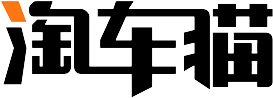
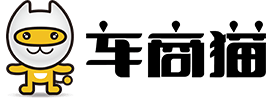
淘车猫更名为车商猫

diff --git a/src/page/profile/children/children/setting/children/about.vue b/src/page/profile/children/children/setting/children/about.vue
@@ -1,7 +1,7 @@
 <template>
 	<div class="rating_page about-page">
 			<header class="user-tit">
-				<a href="javascript:;" class="white-lt" @click="goback"></a>关于淘车猫
+				<a href="javascript:;" class="white-lt" @click="goback"></a>关于车商猫
 			</header>
 
 		<section class="about-wrap">
@@ -10,7 +10,7 @@
 				<span>version 1.1</span>
 			</div>
 			<div class="about-ct">
-				<p>淘车猫是"一猫汽车网"为综合经销商提供优质自营车源的服务平台，使用平台可方便快速的完成订车、安全高效的管理车辆。淘车猫还提供店内展车服务，减少经销商资金压力。
+				<p>车商猫是"一猫汽车网"为综合经销商提供优质自营车源的服务平台，使用平台可方便快速的完成订车、安全高效的管理车辆。车商猫还提供店内展车服务，减少经销商资金压力。
 				</p>
 				<p>
 				自建物流仓储，保证车辆交付及及时性，闪电发车，3日必达！

diff --git a/index.html b/index.html
@@ -9,7 +9,7 @@
     <meta name="x5-fullscreen" content="true">
     <meta name="viewport" content="initial-scale=1, maximum-scale=1, minimum-scale=1, user-scalable=no">
     <link rel="shortcut icon" href="static/favicon.ico" type="image/x-icon" />
-    <title>欢迎加入淘车猫</title>
+    <title>欢迎加入车商猫</title>
 
   </head>
   <body>

diff --git a/src/components/header/header.vue b/src/components/header/header.vue
@@ -1,7 +1,7 @@
 <template>
 
 	<header class="index-header">
-	    <strong class="index-title">淘车猫</strong>
+	    <strong class="index-title">车商猫</strong>
 	    <div class="index-news news-icon"  @click="goMess">
 	        <span v-show="myMessage">{{myMessage}}</span>
 	    </div>

diff --git a/src/page/profile/children/children/setting/setting.vue b/src/page/profile/children/children/setting/setting.vue
@@ -5,7 +5,7 @@
 		</header>
 		<!--设置-->
 		<section class="set-wrap" @click="goAbout">
-			<div><i class="yellow-rt"></i>关于淘车猫</div>
+			<div><i class="yellow-rt"></i>关于车商猫</div>
 		</section>
 		<transition name="router-slid">
             <router-view></router-view>

diff --git a/src/page/index/header.vue b/src/page/index/header.vue
@@ -1,7 +1,7 @@
 <template>
 
 	<header class="index-header">
-	    <strong class="index-title">淘车猫</strong>
+	    <strong class="index-title">车商猫</strong>
 	    <div class="index-news news-icon" v-show="myMessage">
 	        <span>{{myMessage}}</span>
 	    </div>
